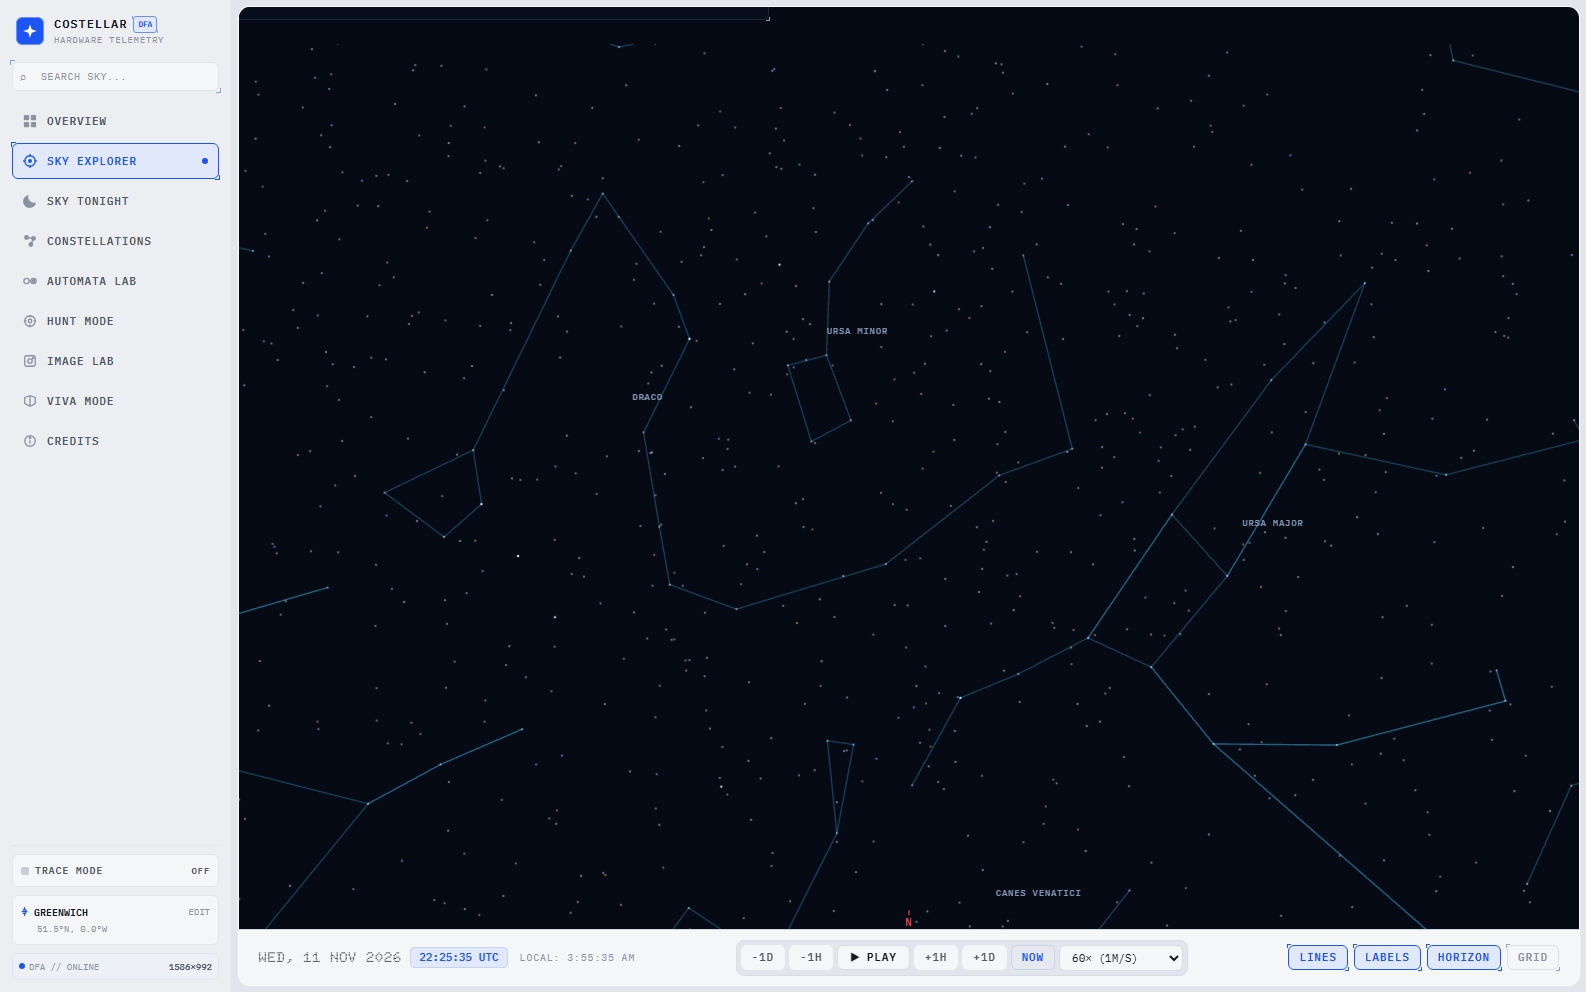
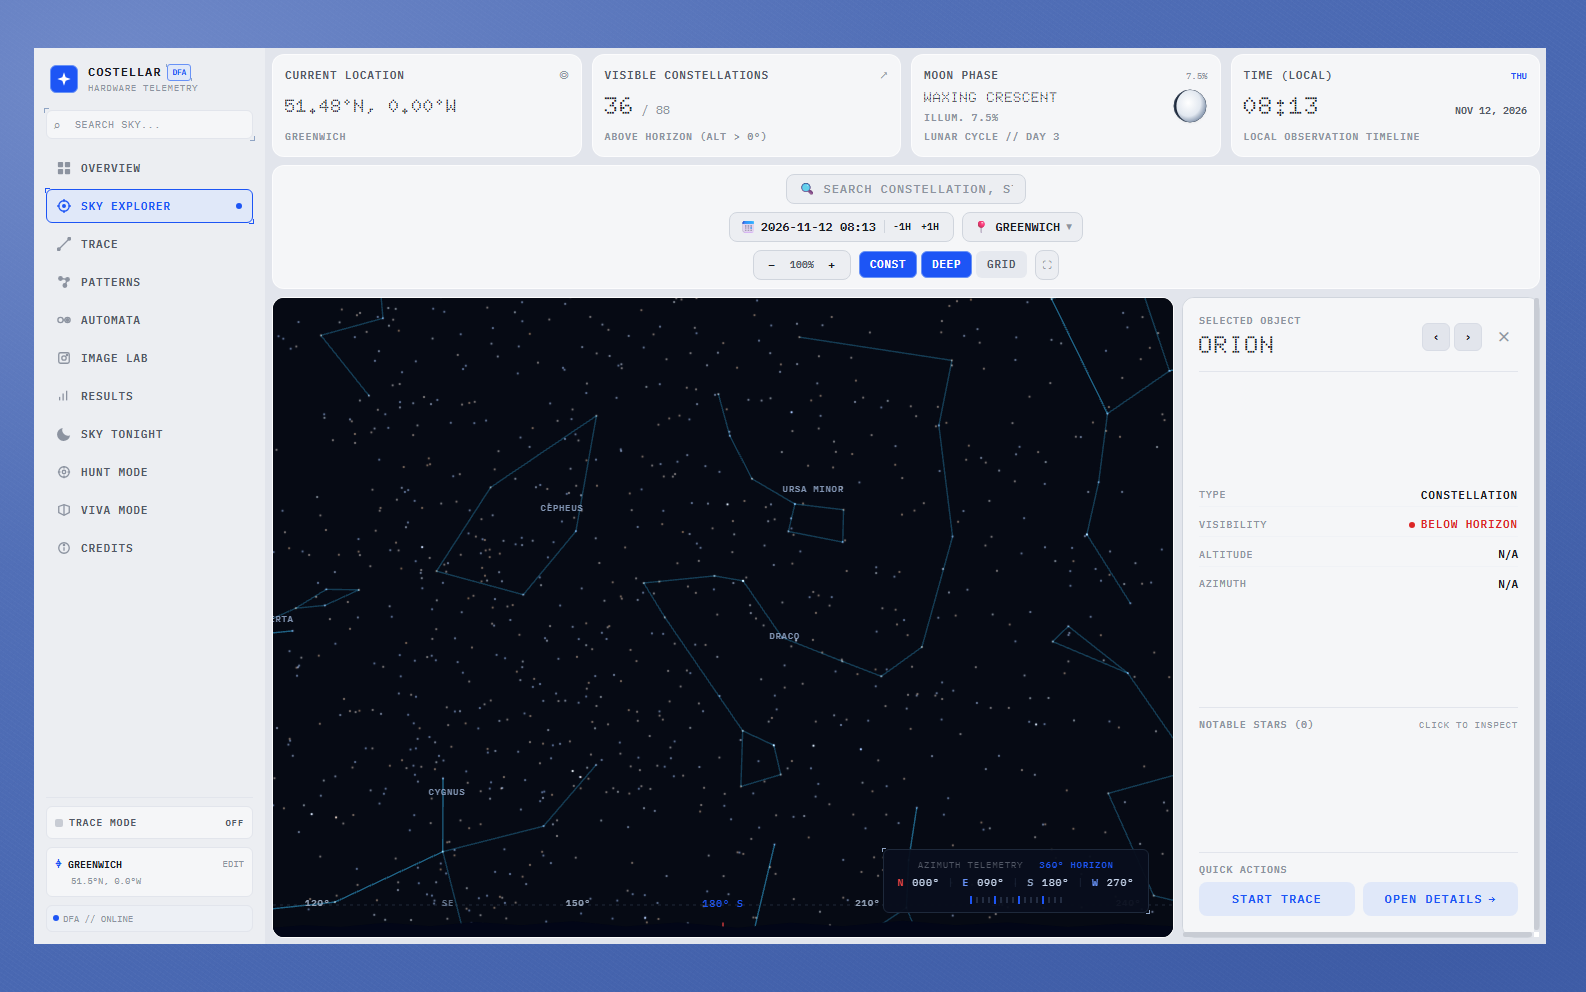
docs(evidence): record verification evidence frames and redesign execution gates

diff --git a/.unlazy/costellar-redesign/PLAN.md b/.unlazy/costellar-redesign/PLAN.md
@@ -1,0 +1,39 @@
+# Plan: Costellar UI and UX redesign
+Scope: costellar-redesign
+Mode: orchestrated
+Depth: tree 2
+
+## Contract
+Use native GPT-6 Luna workers only for app implementation, with disjoint file ownership in the dirty checkout. Preserve existing user work and algorithms. The newly attached PaceOS screen controls interior visual direction. Earlier Costellar audit supplies route-specific behavior and risks. Leave the existing blue surround treatment alone. Reuse current token names and route contracts. Shared design is frozen in the briefs so independent routes can build in one wave. Weekly account allowance floor is 40% remaining. Send updates at 35-minute intervals during sustained work.
+
+Compact left rail and pale warm-neutral panels with 8–12px gutters. Main metadata in readable IBM Plex Mono, large regular numeric metrics, Doto only for isolated digital values, real dot grids. Approximate palette: #eeeeed chassis, #f6f6f5 panels, #dedfdf dividers, #18191b ink, #565b64 secondary, #064bdc accent. Single active cobalt. Existing blue exterior stays. Reference overview is four metrics, then two equally weighted panels, then three utility modules. Quiet surfaces and meaningful controls.
+
+## Tree
+- 1 Costellar redesign ........ GATES.md
+  - 1.1 Shell and navigation ........ gates/leaf-1.1.md
+  - 1.2 Overview ........ gates/leaf-1.2.md
+  - 1.3 Sky Explorer and trace controls ........ gates/leaf-1.3.md
+  - 1.4 Sky rendering ........ gates/leaf-1.4.md
+  - 1.5 Sky Tonight ........ gates/leaf-1.5.md
+  - 1.6 Library and constellation details ........ gates/leaf-1.6.md
+  - 1.7 Recognition results and pattern analysis ........ gates/leaf-1.7.md
+  - 1.8 Automata Lab ........ gates/leaf-1.8.md
+  - 1.9 Image Lab ........ gates/leaf-1.9.md
+  - 1.10 Hunt, Viva and Credits ........ gates/leaf-1.10.md
+  - 1.11 Browser and integration evidence ........ gates/leaf-1.11.md
+
+## Leaf dispatch table
+| Leaf | Owns | Needs | Tier | Planned wave | State |
+|---|---|---|---|---|---|
+| 1.1 | src/App.tsx, src/App.css, src/index.css, src/components/HeaderNav.tsx, src/components/ui/**, components.json, package.json, package-lock.json, tests/e2e-telemetry.test.ts, src/stores/useAstroStore.ts | - | judgment | 1 | VERIFIED |
+| 1.2 | src/features/overview/** | - | judgment | 1 | VERIFIED |
+| 1.3 | src/features/skyExplorer/**, src/features/traceMode/TraceHud.tsx, src/components/TimelineBar.tsx, src/components/StarInspector.tsx | - | judgment | 1 | VERIFIED |
+| 1.4 | src/sky/** | - | judgment | 1 | VERIFIED |
+| 1.5 | src/features/skyTonight/** | - | judgment | 1 | VERIFIED |
+| 1.6 | src/features/constellationExplorer/** | - | judgment | 1 | VERIFIED |
+| 1.7 | src/features/traceMode/RecognitionResultsModal.tsx, src/features/traceMode/PatternAnalysisModal.tsx | - | judgment | 1 | VERIFIED |
+| 1.8 | src/features/automataLab/** | - | judgment | 1 | VERIFIED |
+| 1.9 | src/features/imageLab/** | - | judgment | 1 | VERIFIED |
+| 1.10 | src/features/huntMode/**, src/features/academic/**, src/components/CreditsModal.tsx | - | judgment | 1 | VERIFIED |
+| 1.11 | scripts/verify-screens.cjs, scripts/capture_screens.ps1 | - | judgment | 1 | VERIFIED |
+

diff --git a/.unlazy/costellar-redesign/GATES.md b/.unlazy/costellar-redesign/GATES.md
@@ -1,0 +1,26 @@
+# Gates: Costellar redesign
+Scope: Replacement UI and full core workflow verification
+
+- [x] G1: Production TypeScript and bundling succeed
+  CHECK: npm.cmd run build
+  EXPECT: built in
+  EVIDENCE: automatic-evidence=v1; definition-sha256=69a2887a3018368a51179e47d6fd7f8c3bebb6aba733599b9f4becc7e39921d3; exit=0; EXPECT=matched; output-sha256=8c476413c64d2a2d60879a1f079b7e43c9f129c6880ffbd5f2c258d968e35f69; output-bytes=767; shell=C:\WINDOWS\system32\cmd.exe; cwd=C:\ommd3076\Proejcts\automata-theory; path=fe7be1bdebbf/37 entries
+
+- [x] G2: App tests pass
+  CHECK: npm.cmd test
+  EXPECT: Test Files  10 passed (10)
+  EVIDENCE: automatic-evidence=v1; definition-sha256=a2a1054b9ba7e4205c3532cbd54258864a28164de0b499f91d37618f962e41a1; exit=0; EXPECT=matched; output-sha256=0766c88a20773ba51f441af5a6faf3a98ae197069dde002725a8ddd4bab9b246; output-bytes=240; shell=C:\WINDOWS\system32\cmd.exe; cwd=C:\ommd3076\Proejcts\automata-theory; path=fe7be1bdebbf/37 entries
+
+- [x] G3: Lint passes without warnings
+  CHECK: npm.cmd run lint -- --deny-warnings && echo COSTELLAR_LINT_OK
+  EXPECT: COSTELLAR_LINT_OK
+  EVIDENCE: automatic-evidence=v1; definition-sha256=b425c5946a6dfdc0f5776e63eaa2e7aef109971fa714827a1321a1303e8259b3; exit=0; EXPECT=matched; output-sha256=98dfca4c1e49a9321406363d32b6b961ee05d3c1756e5b0e86e0f0665b273cf0; output-bytes=69; shell=C:\WINDOWS\system32\cmd.exe; cwd=C:\ommd3076\Proejcts\automata-theory; path=fe7be1bdebbf/37 entries
+
+- [x] G4: All route owners meet their individual desktop, mobile, and interaction constraints
+  EVIDENCE: Final browser-2026-11-14T07-21-25-759Z/run-summary.json passed all browser assertions, saved 32 screenshots with zero page errors. Site checked at 1586×992, 1024×768 and 390×844.
+
+- [x] G5: Supplied screen is the shared interior visual authority with no exterior restyle
+  EVIDENCE: PaceOS interior compared visually with desktop Overview and route screenshots. Existing blue surround declarations preserved from the initial dirty checkout.
+
+- [x] G6: Luna-only implementation, registry and UI Skills provenance, and weekly allowance are reviewed
+  EVIDENCE: Eleven explicit GPT-6 Luna worker dispatches. UI Skills MCP supplied Baseline UI, Impeccable and Taste. ReUI base-nova Alert adapted from official raw registry after direct host DNS failure. Preview is localhost. Weekly allowance remained above 40%.

diff --git a/.unlazy/costellar-redesign/gates/leaf-1.3.md b/.unlazy/costellar-redesign/gates/leaf-1.3.md
@@ -1,0 +1,6 @@
+# Gates: Sky Explorer and trace controls
+OWNS: src/features/skyExplorer/**, src/features/traceMode/TraceHud.tsx, src/components/TimelineBar.tsx, src/components/StarInspector.tsx
+Scope: Sky Explorer and trace controls
+
+- [x] G1: Map, inspector, time and trace controls remain accessible and useful at phone and desktop sizes
+  EVIDENCE: Final browser-2026-11-14T07-21-25-759Z/run-summary.json: Sky and Trace captures and completed preset recognition. Mobile candidate panel opens and closes within viewport. Keyboard labels and timeline controls reviewed in source.

diff --git a/.unlazy/costellar-redesign/gates/leaf-1.1.md b/.unlazy/costellar-redesign/gates/leaf-1.1.md
@@ -1,0 +1,6 @@
+# Gates: Shell and navigation
+OWNS: src/App.tsx, src/App.css, src/index.css, src/components/HeaderNav.tsx, src/components/ui/**, components.json, package.json, package-lock.json, tests/e2e-telemetry.test.ts, src/stores/useAstroStore.ts
+Scope: Shell and navigation
+
+- [x] G1: Rail, typography, keyboard navigation and shared surfaces follow the supplied screen across sizes
+  EVIDENCE: Final browser-2026-11-14T07-21-25-759Z/run-summary.json: 11 nav destinations, 3 viewport sizes, upward mobile search, Ctrl+K, observer dialog focus and invalid coordinate error.

diff --git a/.unlazy/costellar-redesign/gates/leaf-1.7.md b/.unlazy/costellar-redesign/gates/leaf-1.7.md
@@ -1,0 +1,6 @@
+# Gates: Recognition results and pattern analysis
+OWNS: src/features/traceMode/RecognitionResultsModal.tsx, src/features/traceMode/PatternAnalysisModal.tsx
+Scope: Recognition results and pattern analysis
+
+- [x] G1: Results and analysis show actual state with operable actions and meaningful empty states
+  EVIDENCE: Final browser-2026-11-14T07-21-25-759Z/run-summary.json: Trace → Results → Automata and Trace → Pattern Analysis completed; reports and mobile scroll behavior inspected. JSON exporter inspected in source.

diff --git a/.unlazy/costellar-redesign/gates/leaf-1.10.md b/.unlazy/costellar-redesign/gates/leaf-1.10.md
@@ -1,0 +1,6 @@
+# Gates: Hunt, Viva and Credits
+OWNS: src/features/huntMode/**, src/features/academic/**, src/components/CreditsModal.tsx
+Scope: Hunt, Viva and Credits
+
+- [x] G1: Secondary routes use the same visual system and preserve the full quiz, walkthrough and attribution flows
+  EVIDENCE: Final browser-2026-11-14T07-21-25-759Z/run-summary.json: desktop Hunt, Viva, Credits and mobile Hunt/Viva captured. Hint lifecycle, 11-step chooser, computed verdict and credit destinations inspected in source.

diff --git a/.unlazy/costellar-redesign/gates/leaf-1.11.md b/.unlazy/costellar-redesign/gates/leaf-1.11.md
@@ -1,0 +1,6 @@
+# Gates: Browser and integration evidence
+OWNS: scripts/verify-screens.cjs, scripts/capture_screens.ps1
+Scope: Browser and integration evidence
+
+- [x] G1: Browser verification covers all views, interactions, and key responsive dimensions without overwriting prior evidence
+  EVIDENCE: Final browser-2026-11-14T07-21-25-759Z/run-summary.json: exit 0, 32 distinct screenshots, three viewport sizes, zero page exceptions, previous evidence preserved.

diff --git a/.unlazy/costellar-redesign/gates/leaf-1.6.md b/.unlazy/costellar-redesign/gates/leaf-1.6.md
@@ -1,0 +1,6 @@
+# Gates: Library and constellation details
+OWNS: src/features/constellationExplorer/**
+Scope: Library and constellation details
+
+- [x] G1: The catalog and constellation detail support search, filters, selection, and feature handoffs
+  EVIDENCE: Final browser-2026-11-14T07-21-25-759Z/run-summary.json: Library navigation, Orion full and mobile details open/close passed. Catalog unit and source checks 19/19, including Favorites.

diff --git a/.unlazy/costellar-redesign/gates/leaf-1.5.md b/.unlazy/costellar-redesign/gates/leaf-1.5.md
@@ -1,0 +1,6 @@
+# Gates: Sky Tonight
+OWNS: src/features/skyTonight/**
+Scope: Sky Tonight
+
+- [x] G1: Night visibility and date/observer controls render and work with actual astronomy data
+  EVIDENCE: Final browser-2026-11-14T07-21-25-759Z/run-summary.json: Sky Tonight route and mobile render passed without exceptions. Existing astronomy/visibility tests pass; rollover and keyboard selection logic reviewed in source.

diff --git a/.unlazy/costellar-redesign/gates/leaf-1.4.md b/.unlazy/costellar-redesign/gates/leaf-1.4.md
@@ -1,0 +1,6 @@
+# Gates: Sky rendering
+OWNS: src/sky/**
+Scope: Sky rendering
+
+- [x] G1: Rendering remains stable at idle and answers drag, focus, selection, time, trace, and resize
+  EVIDENCE: Final browser-2026-11-14T07-21-25-759Z/run-summary.json: idle screenshot hashes matched, drag changed rendering, and chart reflowed at 1024 and 390. Focus, time and render scheduling paths inspected in owning source.

diff --git a/.unlazy/costellar-redesign/gates/leaf-1.2.md b/.unlazy/costellar-redesign/gates/leaf-1.2.md
@@ -1,0 +1,6 @@
+# Gates: Overview
+OWNS: src/features/overview/**
+Scope: Overview
+
+- [x] G1: Overview is the closest translation of the supplied screen with truthful data and working shortcuts
+  EVIDENCE: Final browser-2026-11-14T07-21-25-759Z/run-summary.json: Overview captures at 1586, 1024, 390 and observed current- and preset-trace values. Source renders computed real visibility and report values.

diff --git a/.unlazy/costellar-redesign/gates/leaf-1.8.md b/.unlazy/costellar-redesign/gates/leaf-1.8.md
@@ -1,0 +1,6 @@
+# Gates: Automata Lab
+OWNS: src/features/automataLab/**
+Scope: Automata Lab
+
+- [x] G1: Existing lessons, machine states, construction, simulator, and exports remain operable
+  EVIDENCE: Final browser-2026-11-14T07-21-25-759Z/run-summary.json: Automata dashboard and simulator transfer exercised. Existing Automata lesson tests and source review cover machine and export paths.
